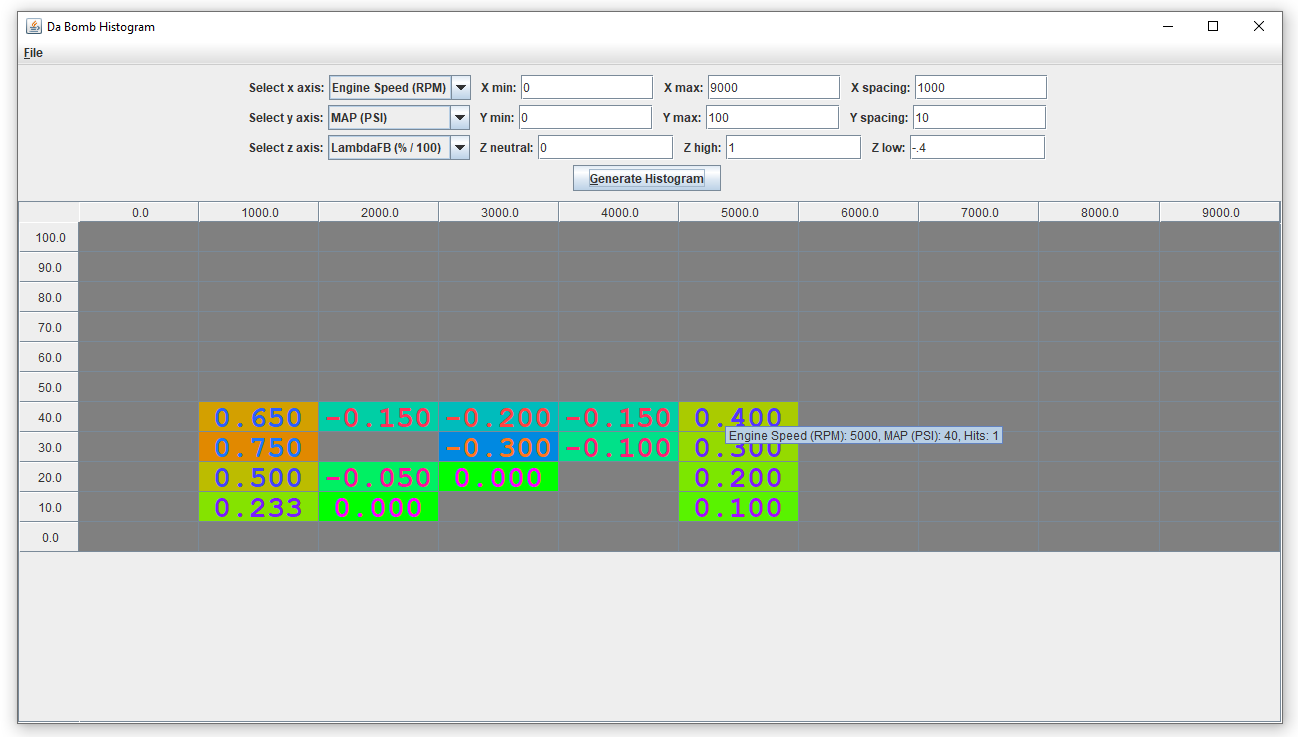
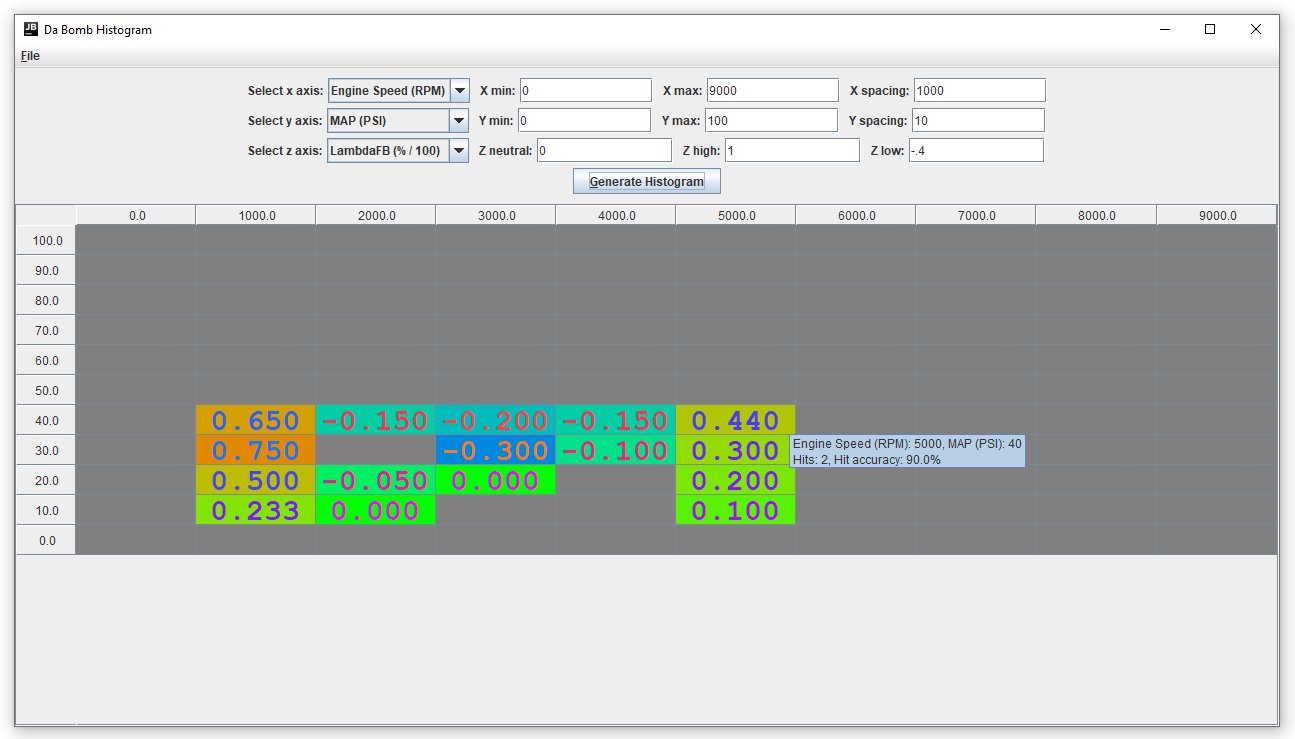
Rename project; better tooltips

Changed region(s): [[0.0, 0.0936, 0.9884, 0.9986], [0.1236, 0.4993, 0.8031, 0.7178], [0.0, 0.0, 0.9884, 0.0936]]

diff --git a/src/main/java/com/refinery408/App.java b/src/main/java/com/refinery408/App.java
@@ -40,7 +40,6 @@ import java.io.File;
 import java.util.Enumeration;
 import java.util.HashSet;
 import java.util.Set;
-import java.util.StringJoiner;
 
 public class App {
     private static final Logger log = LoggerFactory.getLogger(App.class);
@@ -275,19 +274,18 @@ public class App {
                 int realColumnIndex = convertColumnIndexToModel(colIndex);
                 if (realColumnIndex < 0) return null;
 
-                StringJoiner joiner = new StringJoiner(", ");
-                joiner.add(String.format("%s: %.0f",
-                                         xAxis,
-                                         parser.getxValues().toArray(new Double[0])[realColumnIndex]));
-                joiner.add(String.format("%s: %.0f",
-                                         yAxis,
-                                         parser.getyValues().toArray(new Double[0])[rowIndex]));
-                joiner.add("Hits: " + tableModel.getHitsAt(rowIndex, realColumnIndex));
-                Double hitPercentage = tableModel.getHitPercentageAt(rowIndex, realColumnIndex);
-                if (hitPercentage != null) {
-                    joiner.add(String.format("Hit %%: %.1f", hitPercentage * 100));
-                }
-                return joiner.toString();
+                String hitAccuracy = tableModel.getHitPercentageAt(rowIndex, realColumnIndex) == null ?
+                                     "" :
+                                     String.format("Hit accuracy: %.1f%%",
+                                                   tableModel.getHitPercentageAt(rowIndex, realColumnIndex) * 100);
+
+                return String.format("<html>%s: %.0f, %s: %.0f<br>Hits: %d, %s",
+                                               xAxis,
+                                               parser.getxValues().toArray(new Double[0])[realColumnIndex],
+                                               yAxis,
+                                               parser.getyValues().toArray(new Double[0])[rowIndex],
+                                               tableModel.getHitsAt(rowIndex, realColumnIndex),
+                                               hitAccuracy);
             }
         };
         table.setRowHeight(30);

diff --git a/src/main/java/com/refinery408/CSVParser.java b/src/main/java/com/refinery408/CSVParser.java
@@ -42,7 +42,8 @@ public class CSVParser {
                     String[] parts = line.split(delimiter);
                     if (parts.length >= 3) {
                         this.delimiter = delimiter;
-                        this.columnNames.addAll(Arrays.asList(parts));
+                        Arrays.asList(parts)
+                              .forEach(h -> this.columnNames.add(h.replaceAll("^\"|\"$", "")));
                         return;
                     }
                 }

diff --git a/README.md b/README.md
@@ -1,5 +1,19 @@
-# Da Bomb Histogram
+# EMS Datalog Histogram Generator
 
 ![Alt text](screenshots/histo.png?raw=true)
 
-A CSV parser and 2D histogram generator designed to read exported datalogs from standalone car computers and greatly speed up the tuning process. Basically, I didn't want to pay $30 for MegaLogViewer.
+A CSV parser and 2D histogram generator designed to read exported datalogs from standalone car computers.
+I have been using this to great effect with my AEM Infinity to street tune my S2000. Basically, I didn't want 
+to pay $30 for MegaLogViewer.
+
+## How to build
+```
+gradle clean build
+```
+
+## How to Run
+```
+gradle run
+```
+Alternatively, on Windows you can unzip build/distributions/datalog2histogram.zip after building and run 
+**bin/datalog2histogram.bat**.
